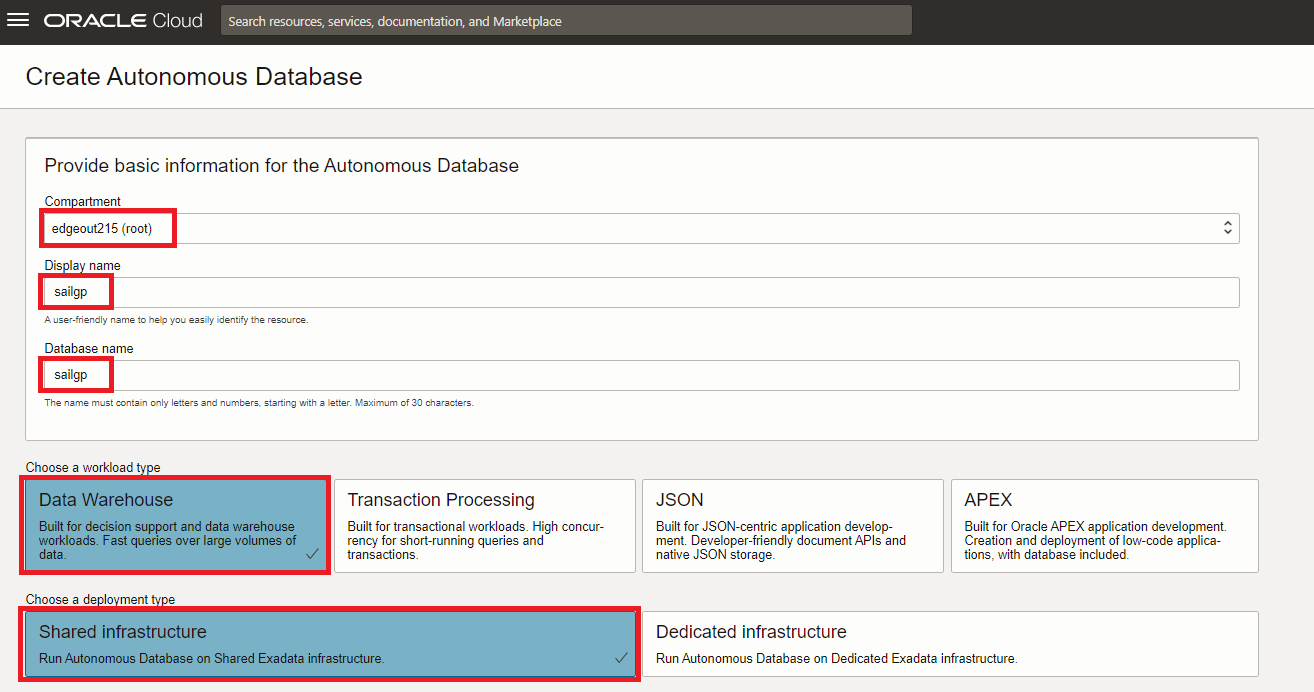
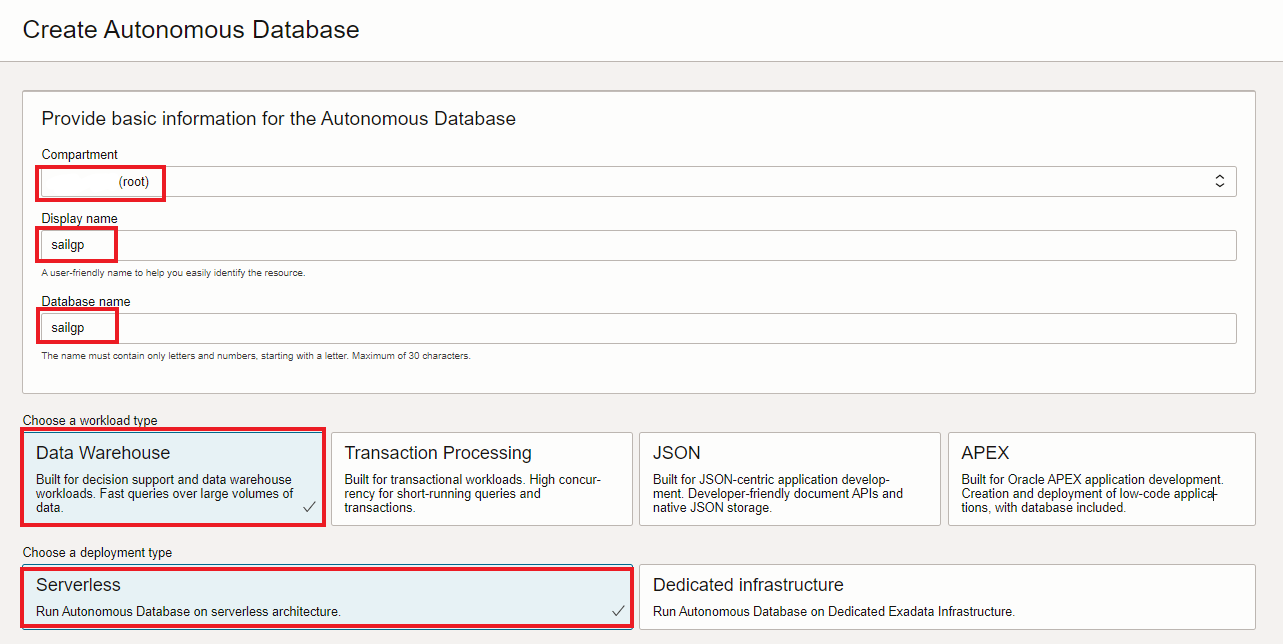
WMS ID: 7001 (#210)
* Update to adw

* Update to lab 3

* update to lab 3 text

* edit to name of adw menu file

* update to lab 4 images

* update to lab 4 menu

* update to lab 6 images

* update to lab 6 images  v2

* update to lab 6 -text and images - v3

* lab 6 edit-v4

* update lab 1

* update lab 2

* update lab 3

* update lab 4

* update lab 5

* update lab 6

* update text lab 6 v2

* update lab 6 v3

* update lab 7

* update lab 8

* recent updates

* update lab 2

* update lab 3

* update lab 4

* update lab 6

* update lab 1

update lab 1

* update images lab 2

* update images lab 3

* Update lab 4

* update lab 6

* update lab 6 -v2

* update lab 7

* updates lab 8

* update lab 9

* update lab 10

* update lab 10

* update lab 12

* update menu oac

* lab 4 update redwood images

* lab 1 update images mysql heatwave

* mysql heatwave lab 2 updated images

* mysqlheatwave lab 3 and 4 updated images

* wmd:6861 lab 1 images renaming

* wmd:6861 updated description names to images in labs 2 and 3

* wmd:6861 updated images names

* wmd:6861 updated image names

* WMS ID: 7001

updated image and text lab 2

---------

diff --git a/sailgp/adw-provisioning/adw-provisioning.md b/sailgp/adw-provisioning/adw-provisioning.md
@@ -45,7 +45,7 @@ This lab assumes you have:
       - Display name: `sailgp`
       - Database name: `sailgp`
       - Choose a workload type: `Data Warehouse`
-      - Choose a deployment type: `Shared Infrastructure`
+      - Choose a deployment type: `Serverless Infrastructure`
 
 4. In the part named "Configure the database", keep all the default values.
 
